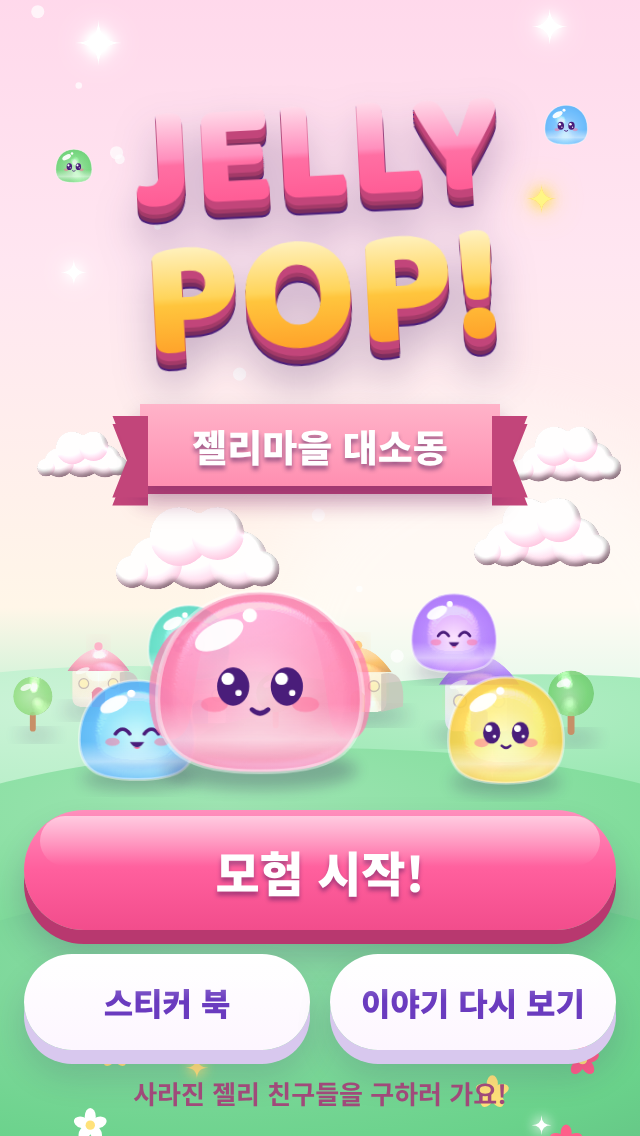
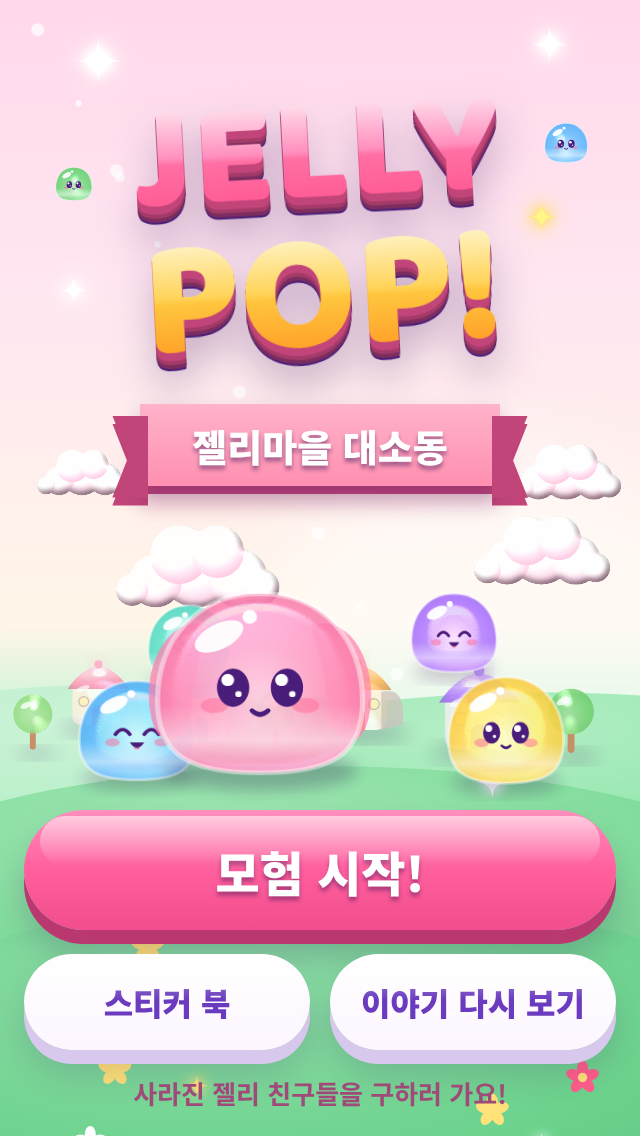
리뷰 반영: 보스 위치·글자 겹침, 지도 1번 이름표 여유, 줄 선 친구 +N 배치, 타이틀 집 줄, 스프라이트 캐시 정리
Claude-Session: https://claude.ai/code/session_019nB8CUFn2sGi5fowtNxecn

diff --git a/index.html b/index.html
@@ -64,7 +64,7 @@ img{-webkit-user-drag:none}
 
 /* 타이틀 */
 #title{align-items:center;justify-content:flex-end;text-align:center;gap:8px;padding-top:calc(env(safe-area-inset-top) + 8vh)}
-#title .art img.cover{object-position:center 62%}
+#title .art img.cover{object-position:center 55%}
 .title-logo{position:relative;font-family:var(--font-num);font-weight:800;line-height:.92;margin:0;transform:rotate(-3deg);
   filter:drop-shadow(0 10px 10px rgba(42,11,78,.25))}
 .title-logo span{display:block;color:transparent;-webkit-text-stroke:0;
@@ -81,7 +81,7 @@ img{-webkit-user-drag:none}
 .ribbon::before,.ribbon::after{content:"";position:absolute;top:6px;width:18px;height:100%;background:#c2457a;z-index:-1}
 .ribbon::before{left:-14px;clip-path:polygon(0 0,100% 0,100% 100%,0 100%,45% 50%)}
 .ribbon::after{right:-14px;clip-path:polygon(0 0,100% 0,55% 50%,100% 100%,0 100%)}
-.title-cast{position:relative;display:flex;align-items:flex-end;justify-content:center;gap:0;height:min(32vh,230px);margin-top:auto;width:100%}
+.title-cast{position:relative;display:flex;align-items:flex-end;justify-content:center;gap:0;height:min(28vh,210px);margin-top:auto;width:100%}
 .title-cast img{position:absolute;bottom:0;height:auto;animation:hop 1.4s ease-in-out infinite;transform-origin:50% 100%}
 .title-cast img.mal{width:min(54%,220px);left:50%;margin-left:min(-27%,-110px);z-index:3;animation-duration:1.7s}
 .title-cast img.f1{width:min(30%,112px);left:4%;bottom:4%;z-index:2;animation-delay:.15s}
@@ -589,7 +589,7 @@ function land(m) {
     res.popped.forEach((p, i) => { const q = Board.pos(b, p.r, p.c); G.pops.push({ x: q.x, y: q.y, c: p.cell.c, t: -i * .03 }); burst(q.x, q.y, p.cell.c, 6); });
     res.dropped.forEach(p => { const q = Board.pos(b, p.r, p.c); G.falls.push({ x: q.x, y: q.y, vy: -60 - rand() * 80, vx: (rand() - .5) * 60, c: p.cell.c, friend: p.cell.friend }); });
     [...res.popped, ...res.dropped].forEach(p => { if (p.cell.friend !== undefined) rescue(p.cell.friend, Board.pos(b, p.r, p.c)); });
-    if (G.st.boss) { const dmg = n + d; G.bossHp = Math.max(0, G.bossHp - dmg); G.bossHit = 1; G.texts.push({ x: 180, y: 70, text: '-' + dmg, life: 1, color: '#ff8ab8' }); }
+    if (G.st.boss) { const dmg = n + d; G.bossHp = Math.max(0, G.bossHp - dmg); G.bossHit = 1; G.texts.push({ x: 180, y: 122, text: '-' + dmg, life: 1, color: '#ff8ab8' }); }
     const p0 = Board.pos(b, r, c);
     G.texts.push({ x: p0.x, y: p0.y, text: '+' + (n * 10 + d * 20), life: 1 });
     if (d >= 4) showToast('우르르 쿵!'); else if (n >= 6) showToast('굉장해요!');
@@ -619,7 +619,7 @@ function afterSettle() {
   }
   if (!st.boss && G.saved >= G.need) return finish(true);
   if (st.drop && G.shotCount % st.drop === 0) { G.y0Target += ROW_H; showToast('천장이 내려와요!'); }
-  if (st.boss && G.shotCount % st.boss.every === 0) { Board.pushTop(b, [...st.colors]); G.texts.push({ x: 180, y: 70, text: '뭉치의 거품 공격!', life: 1.2, color: '#ffb3d4' }); sfx('boss'); }
+  if (st.boss && G.shotCount % st.boss.every === 0) { Board.pushTop(b, [...st.colors]); G.texts.push({ x: 180, y: 150, text: '뭉치의 거품 공격!', life: 1.2, color: '#ffb3d4' }); sfx('boss'); }
   if (st.boss && Board.count(b) === 0) { Board.pushTop(b, [...st.colors]); Board.pushTop(b, [...st.colors]); }
   b.y0 = G.y0Target;
   if (Board.lowestY(b) + R > DEADLINE) return finish(false, 'line');
@@ -800,9 +800,11 @@ function resize() {
   canvas.style.width = Math.floor(W * scale) + 'px'; canvas.style.height = Math.floor(H * scale) + 'px';
   canvas.width = Math.floor(W * scale * dpr); canvas.height = Math.floor(H * scale * dpr);
   dpr = dpr * scale;   // 스프라이트·배경을 실제 픽셀 크기로
+  Art.clearSprites(dpr);   // 다른 크기로 구워 둔 스프라이트는 버린다 (메모리)
   if (G) warmSprites(G.st);
 }
-window.addEventListener('resize', () => { if (!$('play').hidden) resize(); });
+let resizeTimer;
+window.addEventListener('resize', () => { clearTimeout(resizeTimer); resizeTimer = setTimeout(() => { if (!$('play').hidden) resize(); }, 150); });
 
 function burst(x, y, c, n) {
   for (let i = 0; i < n; i++) {
@@ -827,7 +829,7 @@ function render(dt) {
     ctx.fillStyle = 'rgba(245,184,214,.95)'; for (let x = 0; x < W; x += 24) { ctx.beginPath(); ctx.arc(x + 12, b.y0 - 8, 12, 0, Math.PI); ctx.fill(); }
   }
   // 위쪽 사탕 막대 (거품이 매달린 천장)
-  const by = G.st.boss ? b.y0 - 4 : b.y0;
+  const by = G.st.boss ? b.y0 + 2 : b.y0;
   const tg = ctx.createLinearGradient(0, by - 12, 0, by + 2); tg.addColorStop(0, '#fff6fa'); tg.addColorStop(1, '#f5b8d6');
   ctx.fillStyle = tg; roundRect(4, by - 12, W - 8, 14, 7); ctx.fill();
   ctx.fillStyle = 'rgba(255,255,255,.9)'; roundRect(10, by - 10, W - 20, 4, 2); ctx.fill();
@@ -915,7 +917,7 @@ function drawBoss(t) {
   const hpRatio = G.bossHp / G.st.boss.hp;
   G.bossHit = Math.max(0, G.bossHit - .03);
   const shake = G.bossHit * Math.sin(t * 60) * 4;
-  const x = 180 + shake, y = 56 + Math.sin(t * 2) * 3;
+  const x = 180 + shake, y = 50 + Math.sin(t * 2) * 3;
   const mood = G.bossHit > .2 ? 'worried' : 'angry';
   const sq = 1 + Math.sin(t * 2) * .02;
   if (!spr('boss-' + mood, () => SPR.boss(mood), x, y, sq)) { ctx.fillStyle = '#8a5cf0'; ctx.beginPath(); ctx.ellipse(x, y, 28, 26, 0, 0, 7); ctx.fill(); }
@@ -980,7 +982,7 @@ function drawCannonArea(t, dt) {
   }
   const extra = G.shotsLeft - G.queue.length;
   G.lineShown = { cannon: G.queue.length ? 1 : 0, line: Math.max(0, show), extra: Math.max(0, extra) };   // 화면에 그린 것 (테스트 확인용)
-  if (extra > 0) { const p = queuePos(Math.min(6, show + 1)); ctx.fillStyle = '#7a2d5e'; ctx.font = '800 16px "Baloo 2", sans-serif'; ctx.textAlign = 'right'; ctx.fillText('+' + extra, W - 4, p.y + 6); }
+  if (extra > 0) { const p = queuePos(Math.max(1, show)); ctx.fillStyle = '#7a2d5e'; ctx.font = '800 17px "Baloo 2", sans-serif'; ctx.textAlign = 'left'; ctx.fillText('+' + extra, p.x + 12, p.y + 6); }
   // 점수 · 남은 발사 수
   ctx.fillStyle = 'rgba(217,84,138,.9)'; roundRect(W / 2 - 92, H - 28, 184, 24, 12); ctx.fill();
   ctx.strokeStyle = 'rgba(255,255,255,.35)'; ctx.lineWidth = 1.5; roundRect(W / 2 - 92, H - 28, 184, 24, 12); ctx.stroke();
@@ -988,7 +990,7 @@ function drawCannonArea(t, dt) {
   const label = '점수 ' + G.score + '  ·  남은 발사 ' + G.shotsLeft;
   ctx.fillStyle = '#fff'; ctx.fillText(label, W / 2, H - 11);
 }
-function queuePos(i) { return { x: 214 + i * 22, y: 584 + (i > 1 ? 4 : 0) }; }
+function queuePos(i) { return { x: i <= 1 ? 214 + i * 22 : 236 + (i - 1) * 18, y: 584 + (i > 1 ? 4 : 0) }; }
 function roundRect(x, y, w, h, r) { ctx.beginPath(); ctx.moveTo(x + r, y); ctx.arcTo(x + w, y, x + w, y + h, r); ctx.arcTo(x + w, y + h, x, y + h, r); ctx.arcTo(x, y + h, x, y, r); ctx.arcTo(x, y, x + w, y, r); ctx.closePath(); }
 
 // ============================================================
@@ -1270,11 +1272,11 @@ function renderMap() {
   const open = unlockedCount(), at = open - 1;
   // 그림을 화면에 덮되(cover) 칸 6개가 상단 바와 하단 버튼 사이에 들어오게 비율·위치를 고른다
   const fw = field.clientWidth, fh = field.clientHeight, headH = $('mapHead').offsetHeight, footH = $('mapFoot').offsetHeight;
-  const nTop = 170, nBottom = 772;
+  const nTop = 170, nBottom = 772, labelH = 74;   // labelH: 1번 칸 아래 이름표까지의 픽셀 여유
   let k = Math.max(fw / MAP_W, fh / MAP_H);
-  k = Math.min(k, Math.max(.4, (fh - headH - footH) / (nBottom - nTop)));
+  k = Math.min(k, Math.max(.4, (fh - headH - footH - labelH) / (nBottom - nTop)));
   const ww = MAP_W * k, wh = MAP_H * k, ox = (fw - ww) / 2;
-  let oy = Math.min(0, Math.max(fh - wh, (fh - footH) - nBottom * k));
+  let oy = Math.min(0, Math.max(fh - wh, (fh - footH - labelH) - nBottom * k));
   if (nTop * k + oy < headH) oy = Math.min(0, Math.max(fh - wh, headH - nTop * k));
   world.style.left = ox + 'px'; world.style.top = oy + 'px'; world.style.width = ww + 'px'; world.style.height = wh + 'px';
   world.innerHTML = cachedArt('map', mapArt) +

diff --git a/gummy.js b/gummy.js
@@ -330,10 +330,13 @@ window.Gummy = (() => {
       ent.cv = cv; ent.box = box;
       if (onReady) onReady();
     };
+    im.onerror = () => { delete sprites[k]; console.warn('sprite 굽기 실패:', key); };
     im.src = dataURL(svg(body, box));
     return null;
   }
   function spriteBox(key, dpr) { const e = sprites[key + '@' + Math.round(dpr * 100)]; return e && e.box; }
+  // keepDpr 로 구운 것만 남기고 나머지는 버린다
+  function clearSprites(keepDpr) { const suf = '@' + Math.round(keepDpr * 100); for (const k of Object.keys(sprites)) if (!k.endsWith(suf)) delete sprites[k]; }
 
-  return { C, HILLS, mix, light, dark, defs, radial, linear, flushGrads, groundShadow, bigEyes, jelly, bubble, house, tree, cloud, starSvg, bigStar, coin, confetti, sparkle, flower, hill, fence, road, sampleCurve, tower, castle, fountain, lamp, windmill, starsSky, boss, cannonBase, cannonBarrel, cannonHousing, cannonWheel, svg, dataURL, img, sprite, spriteBox };
+  return { C, HILLS, mix, light, dark, defs, radial, linear, flushGrads, groundShadow, bigEyes, jelly, bubble, house, tree, cloud, starSvg, bigStar, coin, confetti, sparkle, flower, hill, fence, road, sampleCurve, tower, castle, fountain, lamp, windmill, starsSky, boss, cannonBase, cannonBarrel, cannonHousing, cannonWheel, svg, dataURL, img, sprite, spriteBox, clearSprites };
 })();
